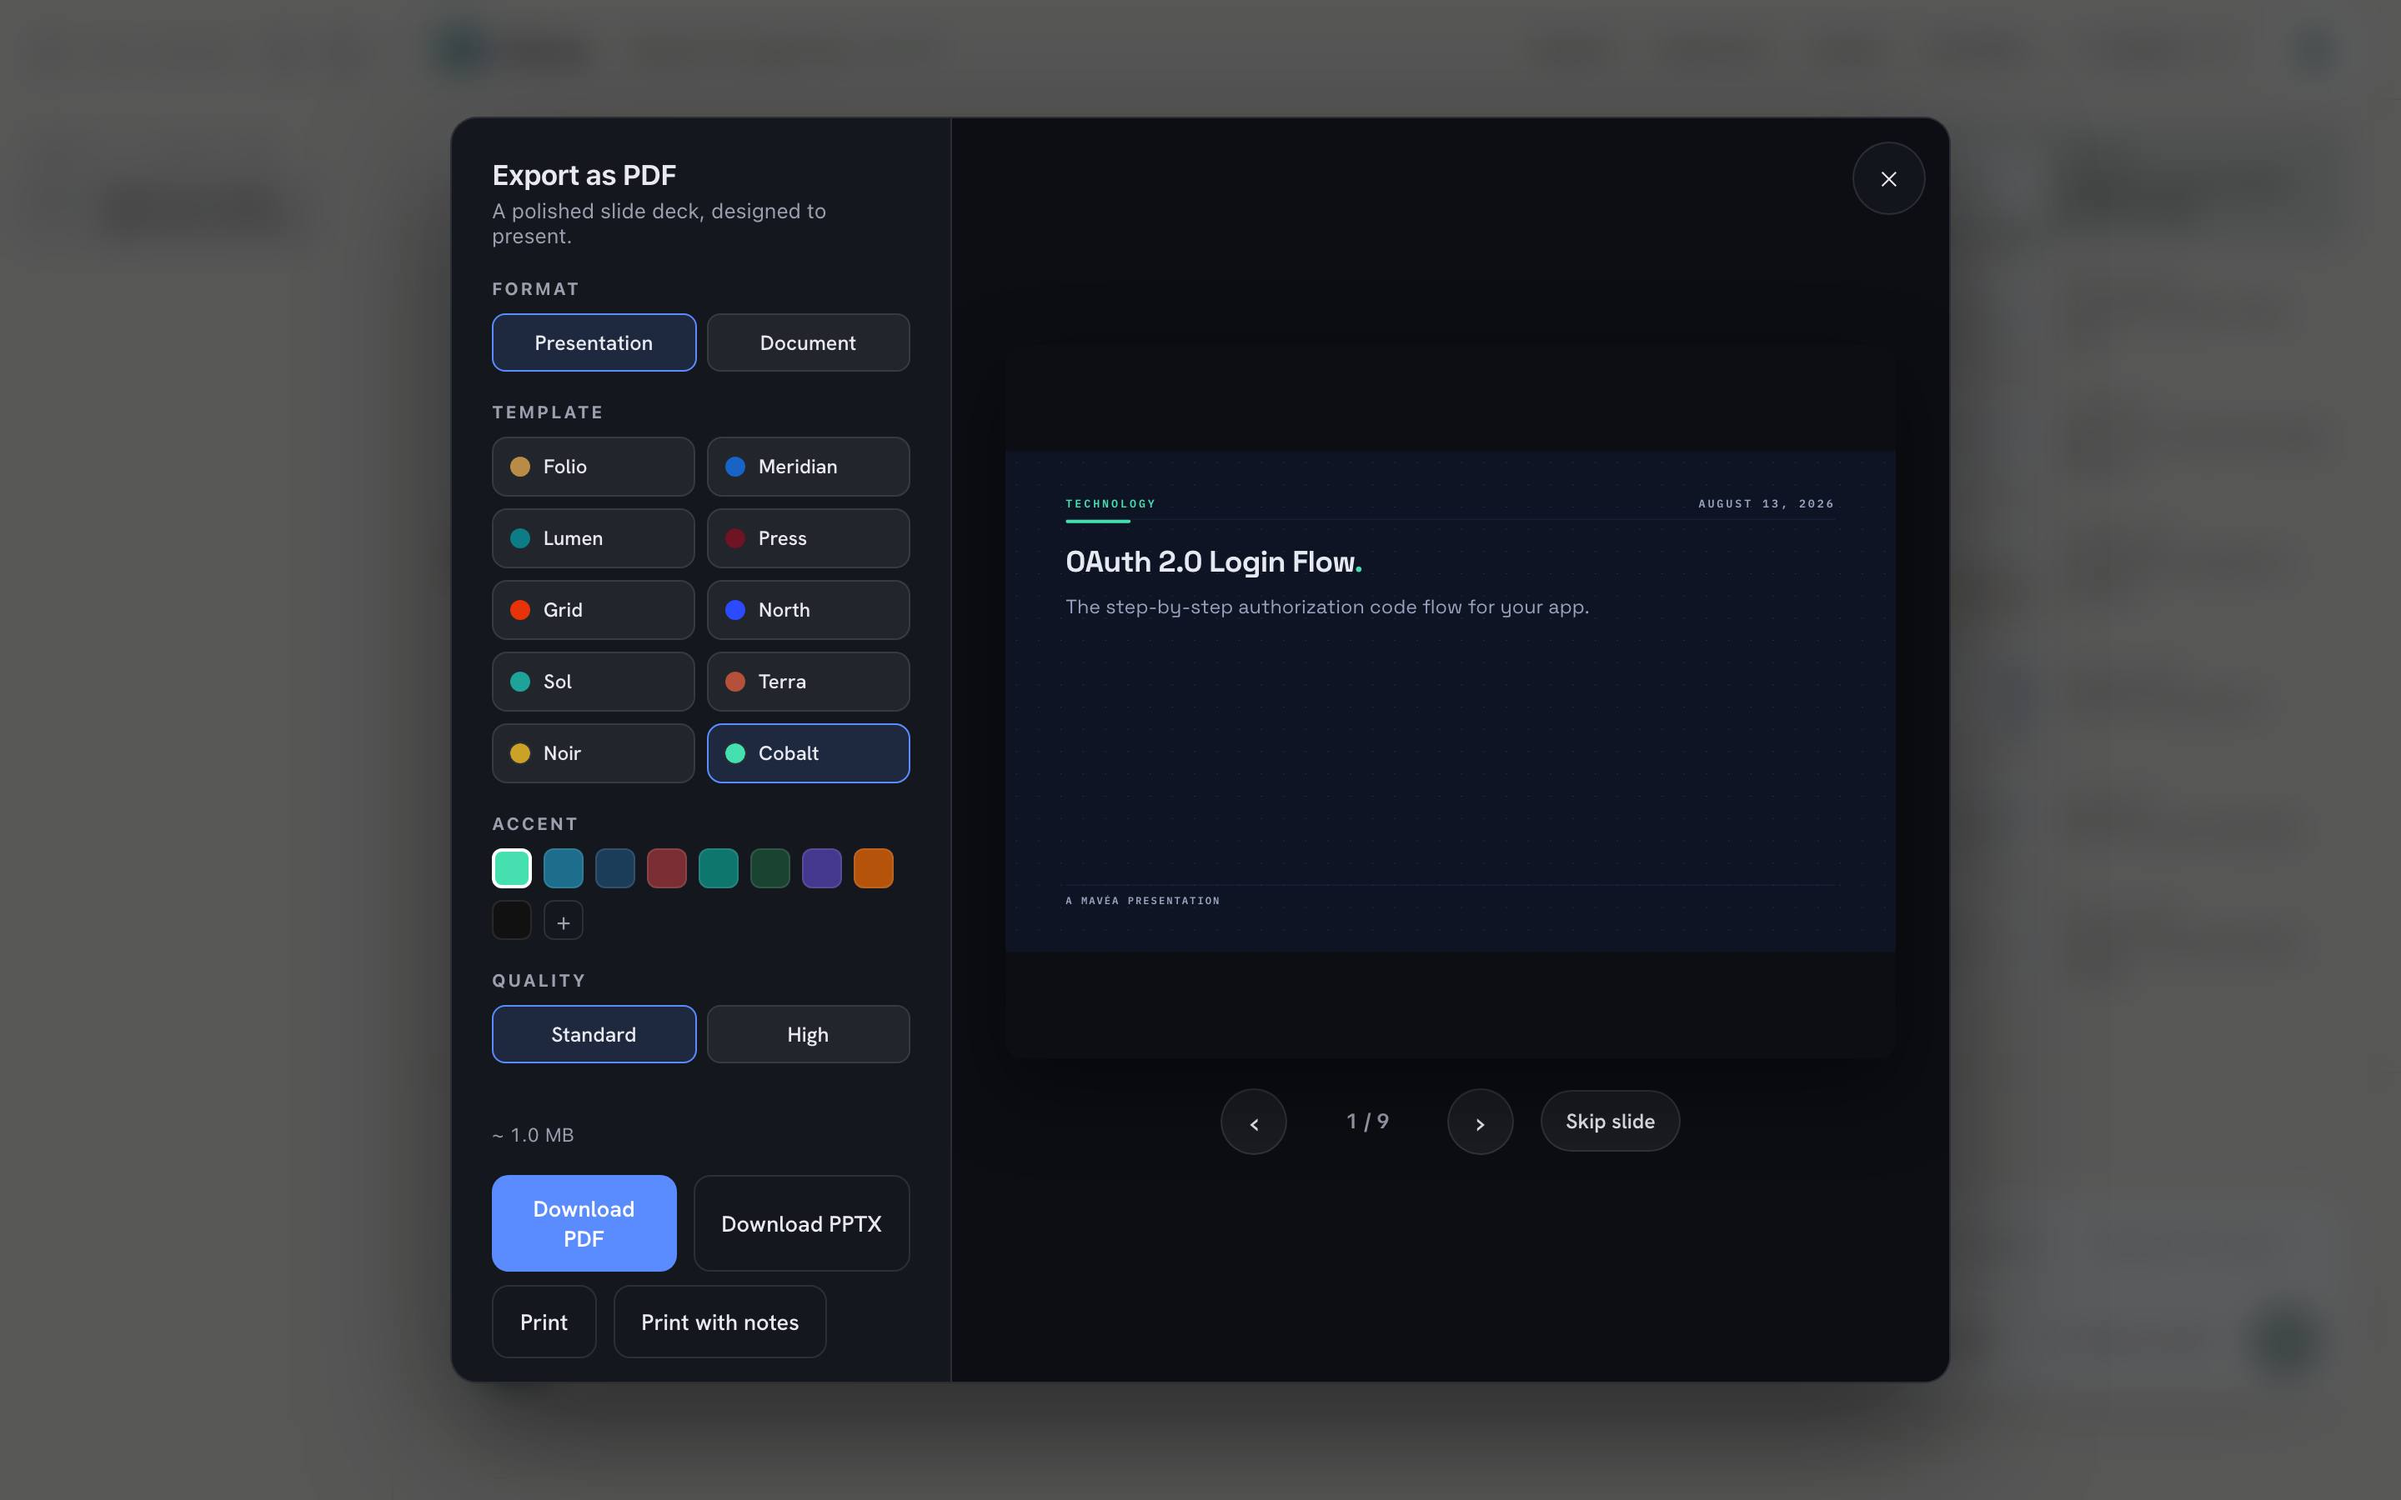
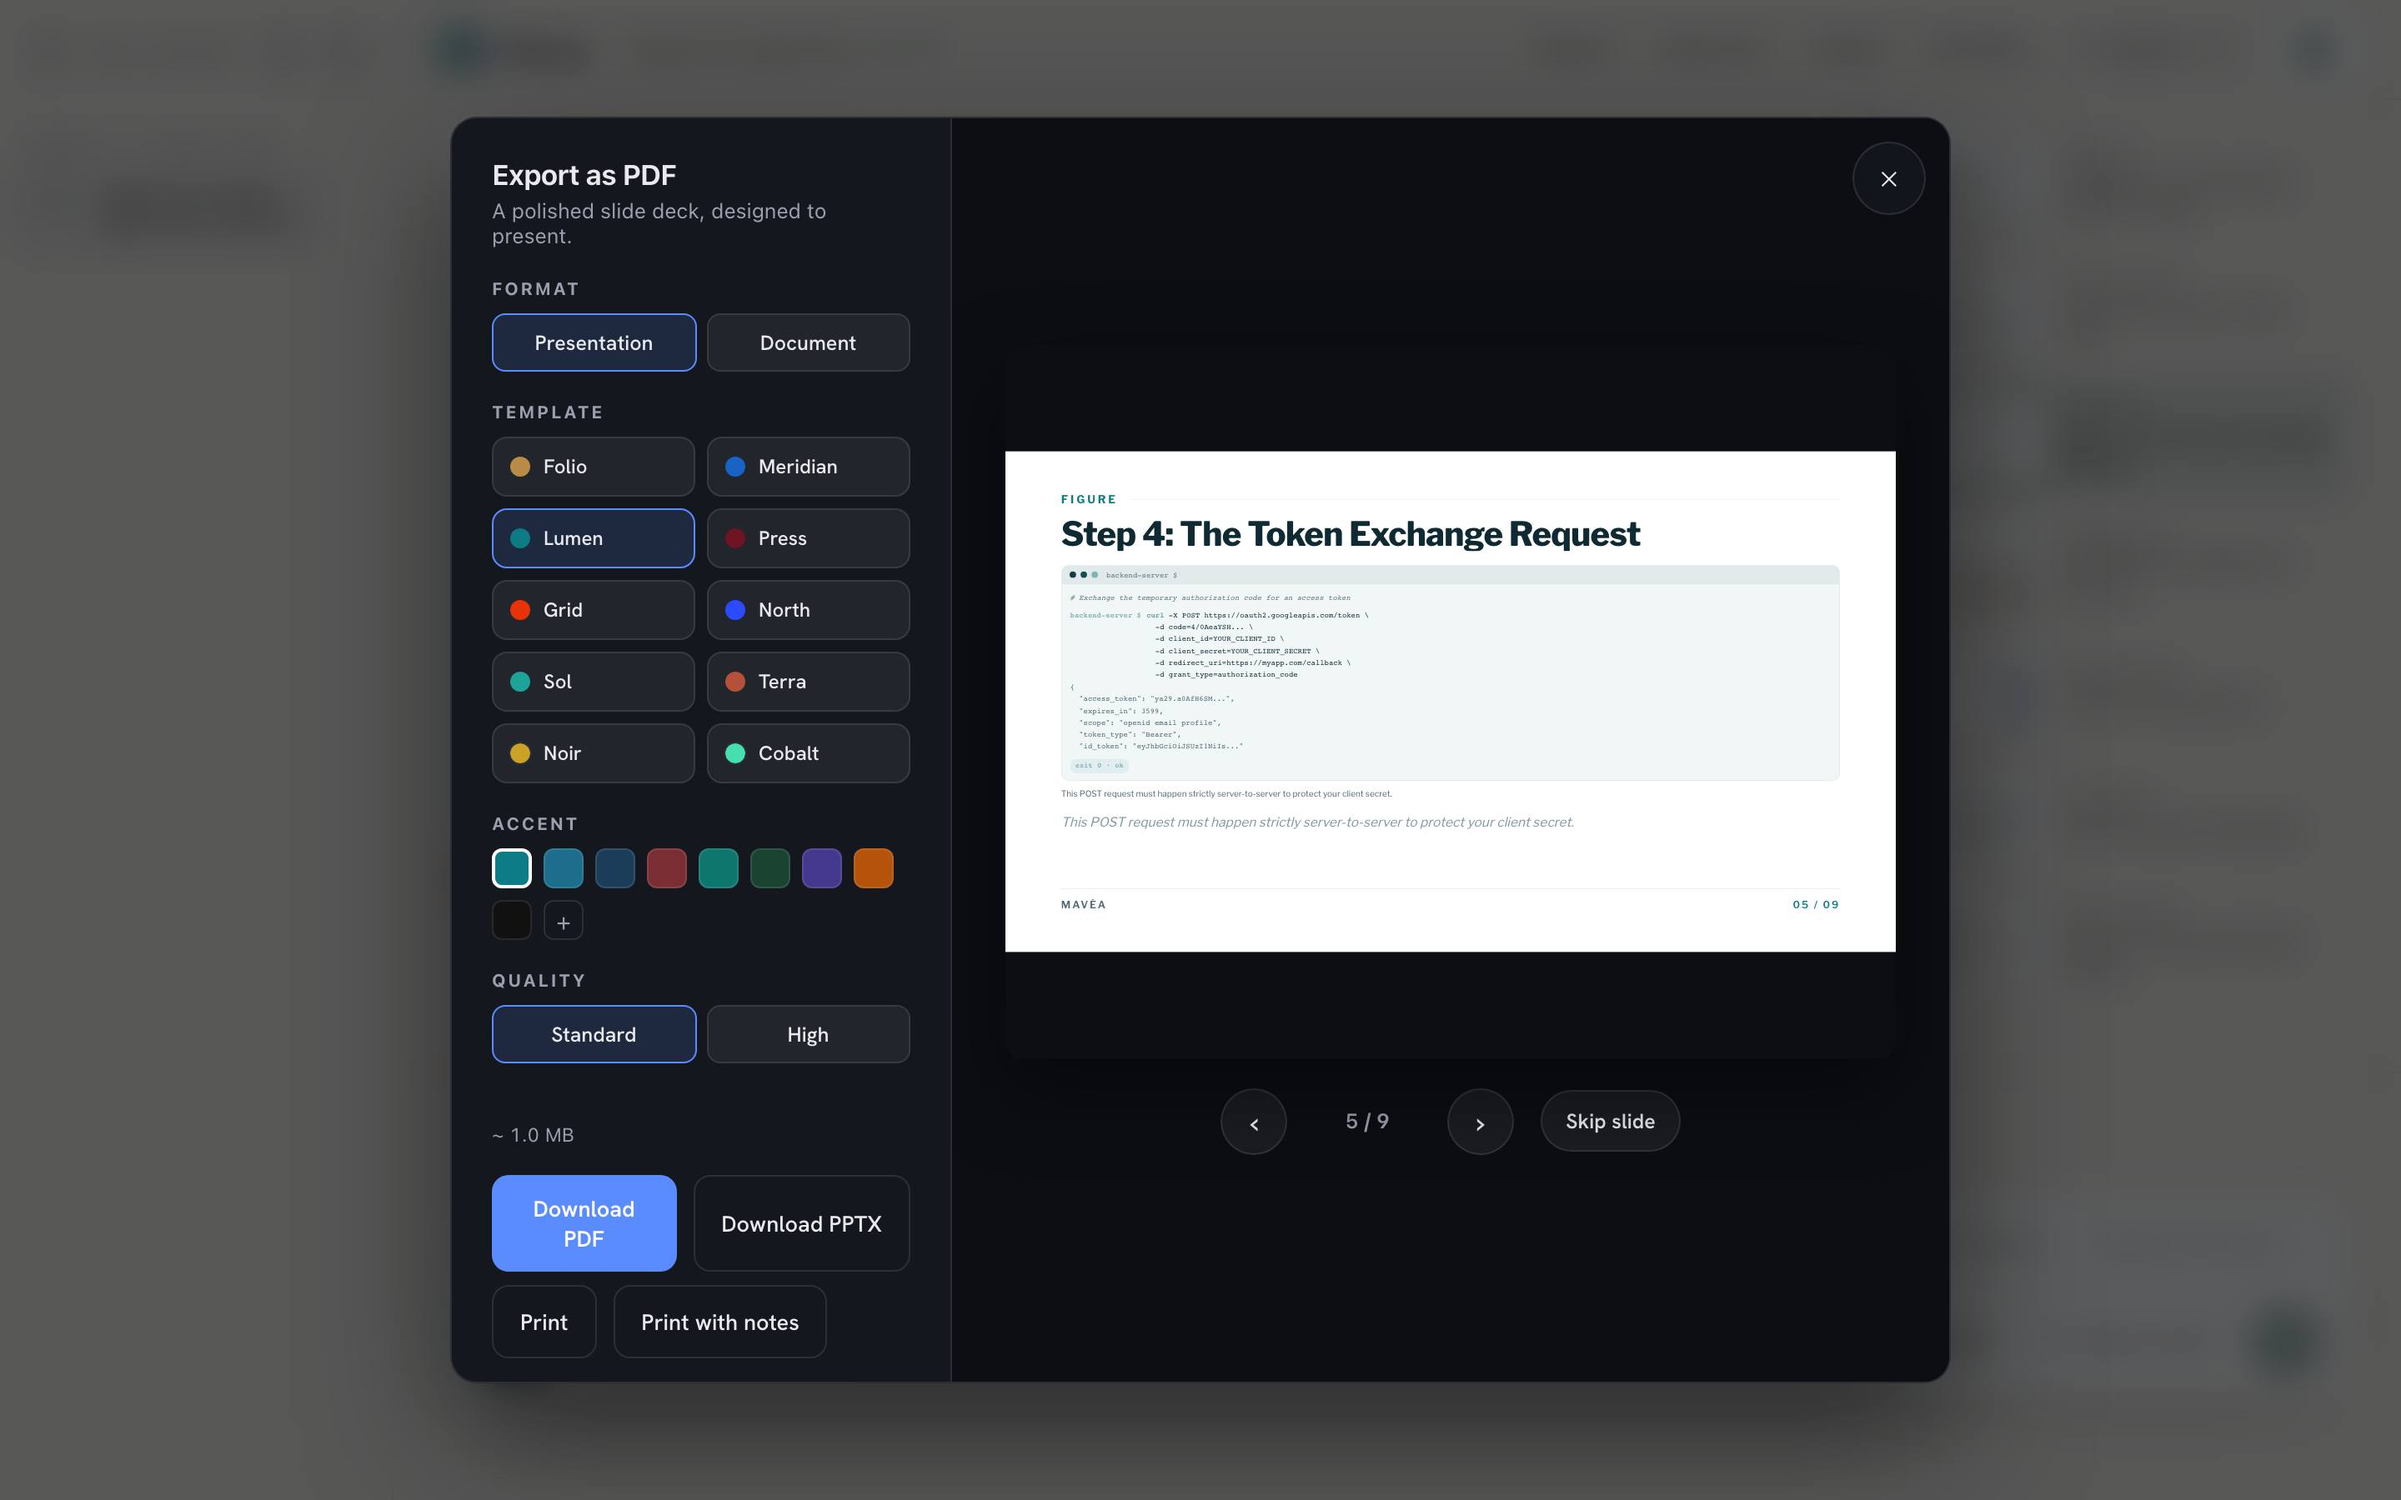
docs(readme): ten surfaces, five to a row
Splits the export tile in two, because a deck and a document are different
promises: the deck lands on a real content slide in a light skin with the PPTX
download in frame, not the title card in the dark default. The document shows a
finished page — the answer set as a paper.

Adds the trip plan, where the answer picks its own form: a route drawn as a map
with numbered stops beside the hour-by-hour version of the same day.

The studio's own chrome is a fixed dark lightbox (ExportModal styles it that
way on purpose, a room dark enough for the artifact to read), so a white page or
a light deck skin in its preview is what keeps those two tiles from looking like
a different product than the eight beside them. Both are shot before the
replay's next beat can take the studio back off screen.

Changed region(s): [[0.4062, 0.28, 0.8125, 0.6533], [0.1875, 0.56, 0.2188, 0.5911]]

diff --git a/README.md b/README.md
@@ -84,26 +84,28 @@ is in [docs/FEATURES.md](docs/FEATURES.md). In the app, press **⌘K**.
 
 ## What it looks like
 
-Eight moments from the walkthrough and the recorded sessions. Every one of them replays with no
-key via `npx @mavea/mavea` — except the thought map, which needs a live model to draw its threads.
+Ten moments from the walkthrough and the recorded sessions. Every one replays with no key via
+`npx @mavea/mavea` — except the thought map, whose threads need a live model to draw.
 
-<!-- Generated, never hand-captured (the one exception is noted above): `pnpm gen:media` re-shoots
-     these against the current build (scripts/capture-media.mts), so a UI change can't quietly leave
-     the README a version behind. Repo-relative paths, so the strip renders in the working tree and
-     in any editor preview — an absolute raw.githubusercontent URL only resolves once the file is
-     pushed. A table, not a <p>: it is the only markup GitHub and npm both keep on one row. -->
+<!-- Generated, never hand-captured: `pnpm gen:media` re-shoots these against the current build
+     (scripts/capture-media.mts), so a UI change can't quietly leave the README a version behind.
+     Repo-relative paths, so the strip renders in the working tree and in any editor preview — an
+     absolute raw.githubusercontent URL only resolves once the file is pushed. A table, not a <p>:
+     it is the only markup GitHub and npm both keep on one row. -->
 <table>
   <tr>
-    <td width="25%" valign="top"><img width="210" src="docs/media/answer-ink.jpg" alt="A token-exchange request on the canvas, underlined and highlighted by Mavéa's pen as it narrates" /><br /><sub><b>It marks what it's saying.</b> The pen lands on the exact line as the sentence is spoken.</sub></td>
-    <td width="25%" valign="top"><img width="210" src="docs/media/canvas-view.jpg" alt="The same answer opened as a spatial canvas, cards connected by drawn links" /><br /><sub><b>The same answer as a board.</b> Laid out in space, with the relationships drawn between them.</sub></td>
-    <td width="25%" valign="top"><img width="210" src="docs/media/think-map.jpg" alt="Thoughts spoken out loud, sorted into cards and threads with the tension between two of them named" /><br /><sub><b>Think out loud first.</b> A ramble sorts itself into themes, and it names the tension you missed.</sub></td>
-    <td width="25%" valign="top"><img width="210" src="docs/media/deck-export.jpg" alt="The export studio: ten deck templates, accents, and a live slide preview built from the conversation" /><br /><sub><b>Then hand it over.</b> Any answer becomes a deck or a document, previewed before you export.</sub></td>
+    <td width="20%" valign="top"><img width="168" src="docs/media/answer-ink.jpg" alt="A token-exchange request on the canvas, underlined and highlighted by Mavéa's pen as it narrates" /><br /><sub><b>It marks what it's saying.</b> The pen lands on the exact line as the sentence is spoken.</sub></td>
+    <td width="20%" valign="top"><img width="168" src="docs/media/canvas-view.jpg" alt="The same answer opened as a spatial canvas, cards connected by drawn links" /><br /><sub><b>The same answer as a board.</b> Laid out in space, with the relationships drawn between them.</sub></td>
+    <td width="20%" valign="top"><img width="168" src="docs/media/trip-plan.jpg" alt="A day trip drawn as a route map with numbered stops beside an hour-by-hour plan" /><br /><sub><b>It picks the right form.</b> A route becomes a map; a day becomes an hour-by-hour plan.</sub></td>
+    <td width="20%" valign="top"><img width="168" src="docs/media/think-map.jpg" alt="Thoughts spoken out loud, sorted into themes and threads with the tension between two of them named" /><br /><sub><b>Think out loud first.</b> A ramble sorts itself into themes — and it names the tension you missed.</sub></td>
+    <td width="20%" valign="top"><img width="168" src="docs/media/impact-map.jpg" alt="A code change at the centre of a map, with labelled edges to what it changes, calls, covers and migrates" /><br /><sub><b>A change, followed out.</b> What it touches, what it breaks, the safest order to ship it.</sub></td>
   </tr>
   <tr>
-    <td width="25%" valign="top"><img width="210" src="docs/media/doc-prism.jpg" alt="A NASA technical report read claim by claim, each finding highlighted on the real scanned page" /><br /><sub><b>A document, claim by claim.</b> Every finding highlighted on the real page it came from.</sub></td>
-    <td width="25%" valign="top"><img width="210" src="docs/media/repo-course.jpg" alt="A GitHub repository turned into a beginner-to-expert curriculum with lessons, files to read and a checkpoint" /><br /><sub><b>A repository, taught.</b> Beginner to expert, built from the code, with real files and checkpoints.</sub></td>
-    <td width="25%" valign="top"><img width="210" src="docs/media/impact-map.jpg" alt="A code change at the centre of a map, with labelled edges to what it changes, calls, covers and migrates" /><br /><sub><b>A change, followed out.</b> What it touches, what it breaks, and the safest order to ship it.</sub></td>
-    <td width="25%" valign="top"><img width="210" src="docs/media/deep-zoom.jpg" alt="Deep Zoom descending through a leaf, from the whole plant down toward a photon" /><br /><sub><b>A topic, in powers of ten.</b> Telescope from the big picture down to the finest mechanism.</sub></td>
+    <td width="20%" valign="top"><img width="168" src="docs/media/doc-prism.jpg" alt="A NASA technical report read claim by claim, each finding highlighted on the real scanned page" /><br /><sub><b>A document, claim by claim.</b> Every finding highlighted on the real page it came from.</sub></td>
+    <td width="20%" valign="top"><img width="168" src="docs/media/repo-course.jpg" alt="A GitHub repository turned into a beginner-to-expert curriculum with lessons, files to read and a checkpoint" /><br /><sub><b>A repository, taught.</b> Beginner to expert, built from the code, with real files.</sub></td>
+    <td width="20%" valign="top"><img width="168" src="docs/media/deep-zoom.jpg" alt="Deep Zoom descending through a leaf, from the whole plant down toward a photon" /><br /><sub><b>A topic, in powers of ten.</b> Telescope from the big picture to the finest mechanism.</sub></td>
+    <td width="20%" valign="top"><img width="168" src="docs/media/deck-export.jpg" alt="The export studio previewing a generated slide, with PDF and PPTX downloads" /><br /><sub><b>Out as a deck.</b> Ten skins, a live preview, PDF or PowerPoint.</sub></td>
+    <td width="20%" valign="top"><img width="168" src="docs/media/doc-export.jpg" alt="The export studio previewing a generated document page in an editorial template" /><br /><sub><b>Or as a document.</b> The same answer set as a paper, ready to print or send.</sub></td>
   </tr>
 </table>
 
